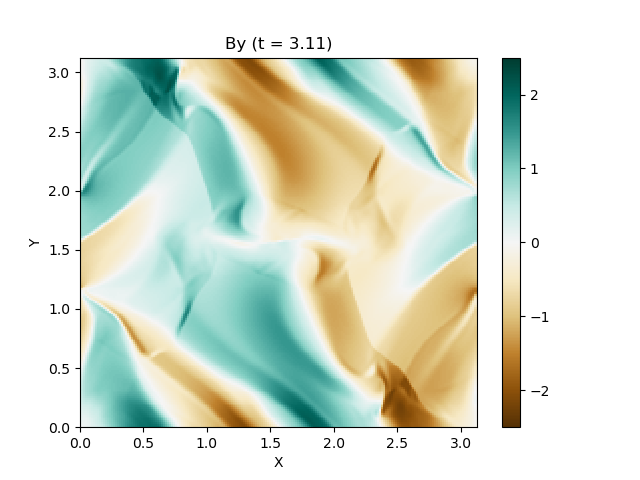
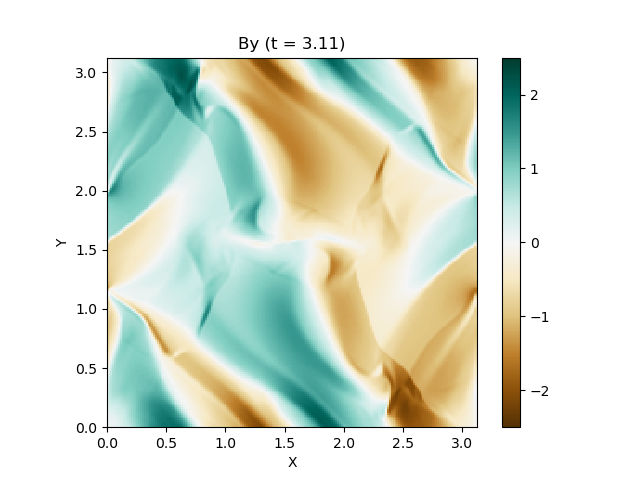
プロットを正方形に修正

diff --git a/Orszag-Tang_vortex/src/plot_img.py b/Orszag-Tang_vortex/src/plot_img.py
@@ -15,6 +15,7 @@ cols = [cm.hot, cm.hot, cm.BrBG, cm.BrBG, cm.BrBG,
         cm.BrBG, cm.BrBG, cm.BrBG, cm.BrBG]
 for i in range(VN):
     plt.gcf().clear()
+    plt.axes().set_aspect("equal")
     data = np.loadtxt("../data/"+var[i]+"_{0:0>3}.csv".format(TN-1), delimiter = ",")
     im = plt.pcolor(x, y, data, cmap = cols[i])
     im.set_clim(mins[i], maxs[i])

diff --git a/Orszag-Tang_vortex/src/plot_mov.py b/Orszag-Tang_vortex/src/plot_mov.py
@@ -18,6 +18,7 @@ data1 = []
 for i in range(VN):
     def animate(n):
         plt.gcf().clear()
+        plt.axes().set_aspect("equal")
         data = np.loadtxt("../data/"+var[i]+"_{0:0>3}.csv".format(n), delimiter = ",")
         im = plt.pcolor(x, y, data, cmap = cols[i])
         im.set_clim(mins[i], maxs[i])

diff --git a/Orszag-Tang_vortex/src/main.py b/Orszag-Tang_vortex/src/main.py
@@ -496,6 +496,7 @@ def main():
               .format(dx*i, rho[i, j], p[i, j], u[i, j], v[i, j], w[i, j], bx[i, j], by[i, j], bz[i, j], psi[i, j]))
     # 結果をプロット
     fig = plt.figure()
+    plt.axes().set_aspect("equal")
     plt.title("p")
     plt.xlabel("X")
     plt.ylabel("Y")
